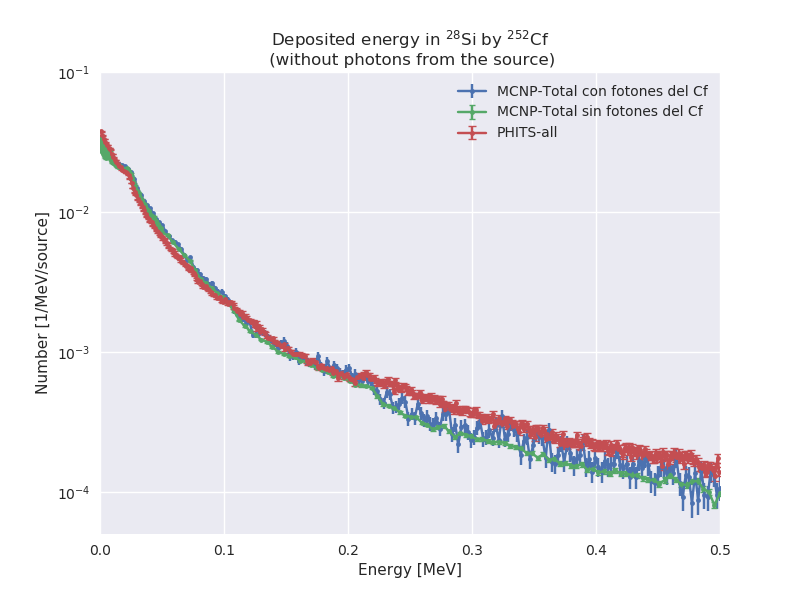
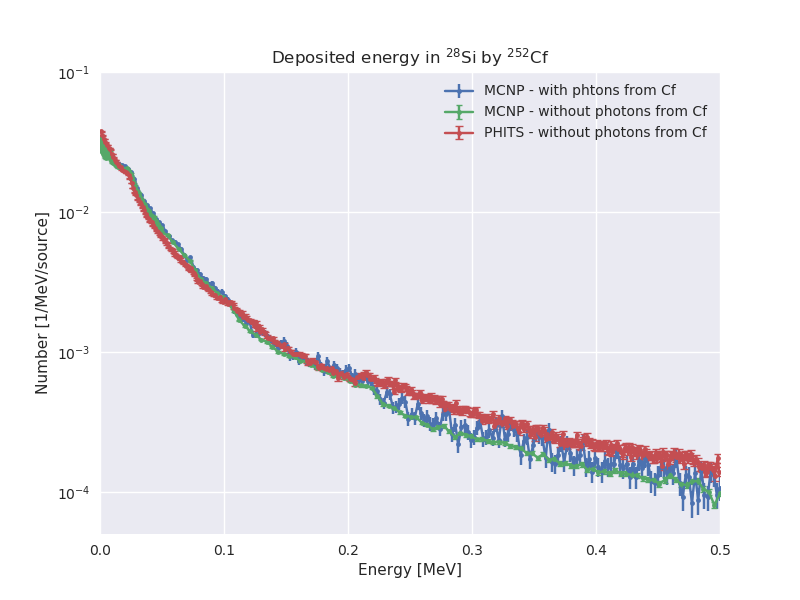
mejora comparación

Changed region(s): [[0.3125, 0.03, 0.875, 0.24]]

diff --git a/exp_skccd_UnThinned/grafica_depo.py b/exp_skccd_UnThinned/grafica_depo.py
@@ -23,10 +23,10 @@ if __name__ == '__main__':
                 'mcnp/skccd.o',
                ]
     labels = [
-               'Total con fotones del Cf',
-               'Total sin fotones del Cf',
+               'with phtons from Cf',
+               'without photons from Cf',
               ]
-    labels = ['MCNP-' + s for s in labels]
+    labels = ['MCNP - ' + s for s in labels]
     tally = '918'
     normaliza = True
     fig, ax = plt.subplots(1, 1, figsize=(8, 6))
@@ -57,6 +57,8 @@ if __name__ == '__main__':
     # particles = ['30Si', '31Si', 'positron', 'electron', 'all']
     particles = ['all']
 
+    label = 'PHITS - without photons from Cf'
+
     data = lee_espectro_phits_eng(archivo, zona)
     normaliza = True
     # Puntos centrados en el bin
@@ -71,7 +73,7 @@ if __name__ == '__main__':
             std_val = std_val / bin_width
 
         (_, caps, _) = ax.errorbar(eng, val, yerr=std_val, fmt='.-',
-                                   label='PHITS-'+part, capsize=3,
+                                   label=label, capsize=3,
                                    )
         for cap in caps:
             cap.set_markeredgewidth(1)
@@ -85,7 +87,7 @@ if __name__ == '__main__':
     ax.legend()
 
     title_str = 'Deposited energy in $^{28}$Si by $^{252}$Cf'
-    title_str += '\n (without photons from the source)'
+    # title_str += '\n (without photons from the source)'
     fig.gca().set_title(title_str)
 
     fig.savefig('deposited_Si_comp.png')
